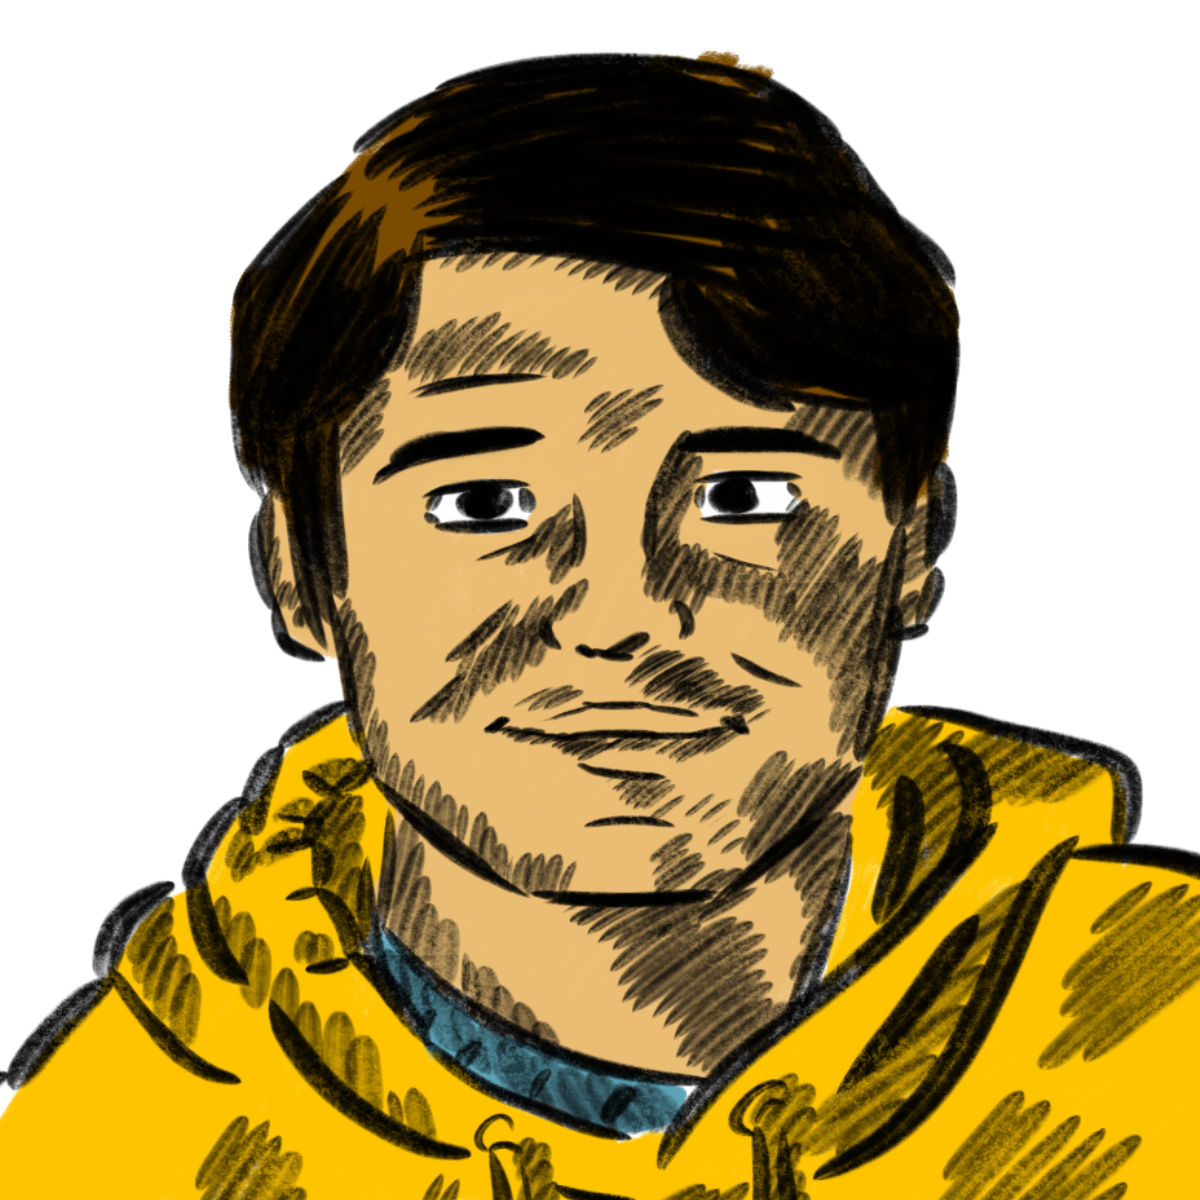
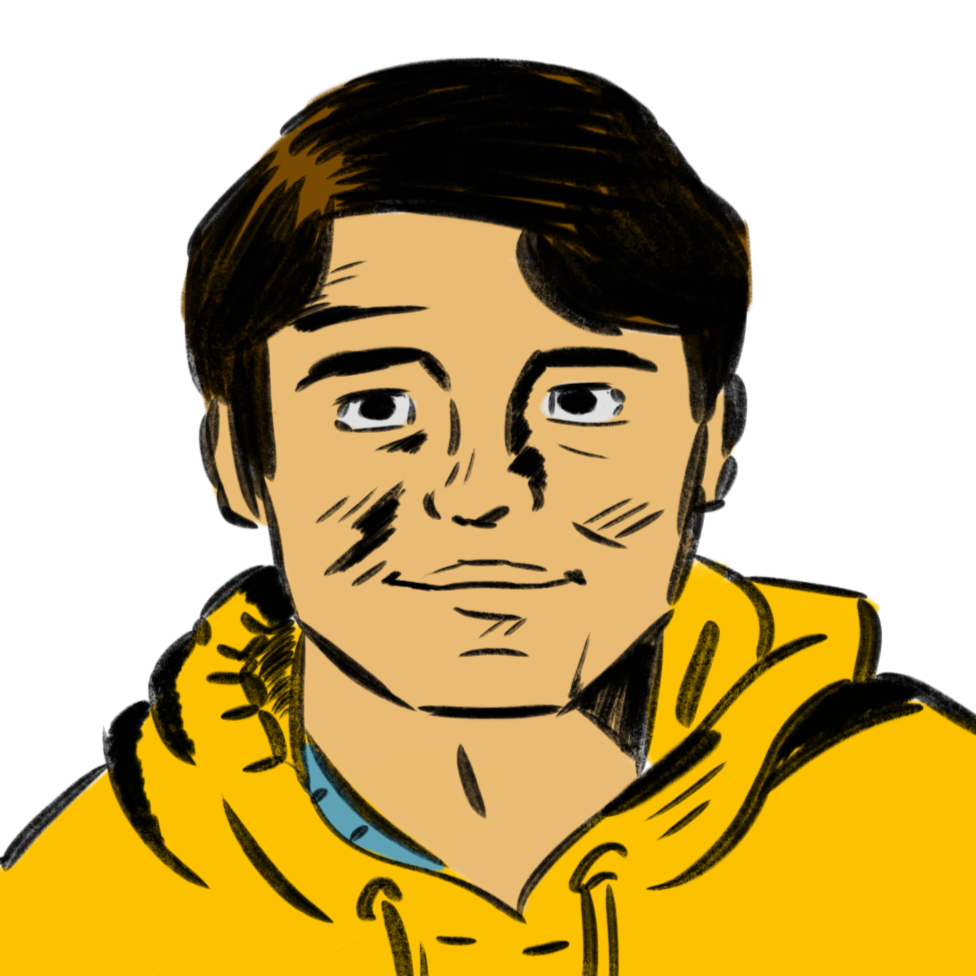
Might add a few more projects to the wesbite

diff --git a/index.html b/index.html
@@ -26,12 +26,12 @@
         <!-- Hyperlink Buttons -->
          <div style="text-align: center;
                      margin:auto">
-                <a class="aClass01"
+                <a class="externalLink"
                    href="https://www.linkedin.com/in/luciano-loma-lorenzana-510371188/"
                    target="_blank">
                     LinkedIn Profile
                 </a>
-                <a class="aClass01"
+                <a class="externalLink"
                    href="https://github.com/LucianoLL"
                    target="_blank">
                     GitHub Profile
@@ -50,12 +50,12 @@
                         table-layout: fixed;
                         margin: auto;
                         width: 100%;">
-                <a class="aClass02"
+                <a class="navLink"
                     style="border-right: solid;"
                     href="#Skills">
                     Skills            
                 </a>
-                <a class="aClass02"
+                <a class="navLink"
                     href="#PersonalProjects">
                     Personal Projects
                 </a>
@@ -67,7 +67,8 @@
         <!-- Introduction -->
         <div class="container02">
             <img src="images/selfPortrait.png"
-                 class="imgClass01">
+                 class="imgClass01"
+                 style="background-color: rgb(55, 90, 100);">
             
             <p>
                 &emsp; My name is <b>Luciano Loma Lorenzana</b>, and I'm a current Pre-Health PostBacc 
@@ -101,13 +102,13 @@
         <br>
 
         <!-- Skills -->
-        <div class="container01">
+        <div class="container01"
+             id="Skills">
             <div class="sectionHeader">
                 Skills
             </div>
         </div>
-        <table class="skillsTable" 
-               id="Skills">
+        <table class="skillsTable">
             <tr>
                 <th>Coding Languages</th>
                 <th>Frameworks & Libraries</th>
@@ -169,6 +170,161 @@
             
         </table>
 
+        <br>
+
+        <!-- Personal Projects -->
+        <div class="container01"
+             id="PersonalProjects">
+            <div class="sectionHeader">
+                Personal Projects
+            </div>
+        </div>
+              
+        <div style="border-style: solid;
+                    border-top-style: none;
+                    margin: auto;
+                    width: 70%;">
+            <h2 class="projectHeader"
+                       style="width: auto;">
+                       MedTech Programs
+            </h2>
+            <div class="container02"
+                 style="border-style: none;
+                        width: auto;">
+                <div style="flex: 1;
+                            margin: auto;
+                            text-align: center">
+
+                    
+                    <img src="images/MedTechLogo.png"
+                         class="imgClass01"
+                         style="background-color: rgb(230, 215, 160);">
+
+                    <br>
+                    <a class="projectLink"
+                       href="https://medtechprograms.onrender.com/"
+                       target="_blank">
+                        Link to Website
+                    </a>
+                    <br>
+                    <p>
+                        NOTE: if the site is taking a while to load or render, don't panic this is 
+                        cause the site goes offline due to server inactivty (aka. no one has been using
+                        the site for the last 50 seconds). Just give it some time and it should load.
+                    </p>
+                </div>
+                <p>
+                    &emsp; This site was written in Python using Pandas and the Dash framework, 
+                    which are libraries and frameworks that I got familiarized with during my time 
+                    as a research assistant at UC Santa Cruz. The Dash framework is used to create 
+                    the layout and assets, basically the UI, and Pandas is used to store and organize
+                    the "database" of majors and programs. Since I'm one person working on the site,
+                    I just use a simple .csv file, but I am working on incorporating the database 
+                    into an SQL database to more efficiently update data entries. 
+                    <br>
+                    &emsp; After attending a pre-health conference in Davis, I was inspired
+                    to create this website to catalogue a variety of grad programs and majors
+                    that combine engineering, biology, and health. The site is an ongoing
+                    project and is open source, the site is neither meant for any type of revenue
+                    or monetization. Since this is also an independent project, there is no
+                    direct association with or endorsement of any university or institution referenced 
+                    on the site.
+                </p>
+            </div>
+        </div>
+
+        <br>
+        
+        <div style="border-style: solid;
+                    margin: auto;
+                    width: 70%;">
+            <h2 class="projectHeader"
+                style="width: auto;">
+                Your Intro To Bio
+            </h2>
+            <div class="container02"
+                 style="border-style: none;
+                        width: auto;">
+                <p>
+                    &emsp; This is more of an app rather than a website. This was my first attempt to
+                    creating my own Dash app. This app is still unfinished as the site was created while
+                    taking my first biology course at CSU East Bay, so the idea was to update the app 
+                    as I was going through the course. This project is also a bit of a successor to
+                    another project that I worked on, "Unofficial Chem 1A Calculators" with tools I
+                    developed while taking a chemistry course at UC Santa Cruz.
+                    <br>
+                    &emsp; While the site is not deployed, it is functional, you'll just have to install
+                    Python and the required libraries and frameworks to your machine/computer. There is 
+                    even a text file in the repo, "requirements.txt", with a list of the libraries and 
+                    frameworks to run the app. The project is currently on hiatus as other projects and
+                    factors in my life are taking priority. 
+                </p>
+                <div style="flex: 1;
+                            margin: auto;
+                            text-align: center">
+                    <img src="images\YourIntroToBioLogo.png"
+                         class="imgClass01"
+                         style="background-color: rgb(230, 215, 160);">
+
+                    <br>
+                    <a class="projectLink"
+                       href="https://github.com/LucianoLL/YourIntroToBio"
+                       target="_blank">
+                        Link to GitHub Repo
+                    </a>
+                    <br>
+                    <p>NOTE: this is not a site, this a GitHub repo.</p>
+                </div>
+            </div>
+        </div>
+
+        <br>
+
+        <div style="border-style: solid;
+                    margin: auto;
+                    width: 70%;">
+            <h2 class="projectHeader"
+                style="width: auto;">
+                Nutri Slug
+            </h2>
+            <div class="container02"
+                 style="border-style: none;
+                        width: auto;">
+                <div style="flex: 1;
+                            margin: auto;
+                            text-align: center;">
+                    <img src="https://github.com/LucianoLL/cruzhacks_2024_key_caps/blob/main/frontend/src/Components/Images/nutrislug-icon.png?raw=true"
+                         class="imgClass01"
+                         style="background-color: rgb(230, 215, 160);">
+                    <br>
+                    <a class="projectLink"
+                       href="https://github.com/LucianoLL/cruzhacks_2024_key_caps"
+                       target="_blank">
+                        Link to GitHub Repo
+                    </a>
+                    <p>
+                        NOTE: I want to add that I was in charge of purely the AI backend, any frontend, graphics and images,
+                        and web scrapping were created by my teammates Michael Alaniz, Rudy Chavez, and Kyle Delmo.
+                    </p>
+                </div>
+                <p>
+                    &emsp; This is my team's project from the 2024 CruzHacks Hackathon. My team was known as Key_Caps,
+                    and the team consisted of me, Michael Alaniz, Rudy Chavez, and Kyle Delmo. We developed an app that would
+                    create, in real time, a vareity of meals based on the options provided at the UC Santa Cruz dinning halls.
+                    Depeding on the time of day, breakfast in the morning for example, the user would select a dinning hall
+                    on campus, select their dietary needs, and the app's AI would generate meal combinations for the user. The 
+                    AI would also give a vareity of meal combinations, all considerng the user's dietary needs, based on calories,
+                    amount of sugar, and even protein content.
+                    <br>
+                    &emsp; I was in charge of creating the AI for the app. I decided to go with a generative algorithm with a 
+                    fitness function, seemed to be the most straightforward solution to generating meal combinations. So when
+                    the user would select their dietary needs, like lactose intolernace, or any food allergy, the AI would
+                    account for those and create plates that are safe for the user's consumption. While the backend AI was
+                    mostly completed, we had issues having the React frontend interacting with the Python backend. At the same time,
+                    since the project was made in roughly two days, the web scrapping would sometimes take a while to execute.
+                </p>
+            </div>                
+        </div>
  
 
 </html>

diff --git a/generalStyles.css b/generalStyles.css
@@ -44,7 +44,7 @@ th{
 
 
 
-.aClass01{
+.externalLink{
     background-color: rgb(200, 135, 5);
     border-style: solid;
     color: rgb(0, 0, 0);
@@ -55,7 +55,7 @@ th{
     text-decoration: none;
 }
 
-.aClass02{
+.navLink{
     background-color: rgb(60, 90, 70);
     color: rgb(0, 0, 0);
     display: table-cell;
@@ -64,6 +64,28 @@ th{
     padding: 1%;
     text-decoration: none;
     width: auto;
+}
+
+.projectLink{
+    background-color: rgb(60, 90, 70);
+    border-style: solid;
+    color: rgb(0, 0, 0);
+    display: inline-block;
+    font-family: monospace;
+    font-size: 150%;
+    padding: 2%;
+    text-decoration: none;
+}
+
+.projectHeader{
+    background-color: rgb(60, 90, 70);
+    border-bottom-style: solid;
+    color: rgb(0, 0, 0);
+    font-family: monospace;
+    font-size: 150%;
+    margin: auto;
+    padding: 1%;
+    width: 70%;
 }
 
 .container01{
@@ -87,7 +109,6 @@ th{
 
 .imgClass01{
     align-self: center;
-    background-color: rgb(55, 90, 100);
     border-style: solid;
     flex: 1;
     margin: auto;
